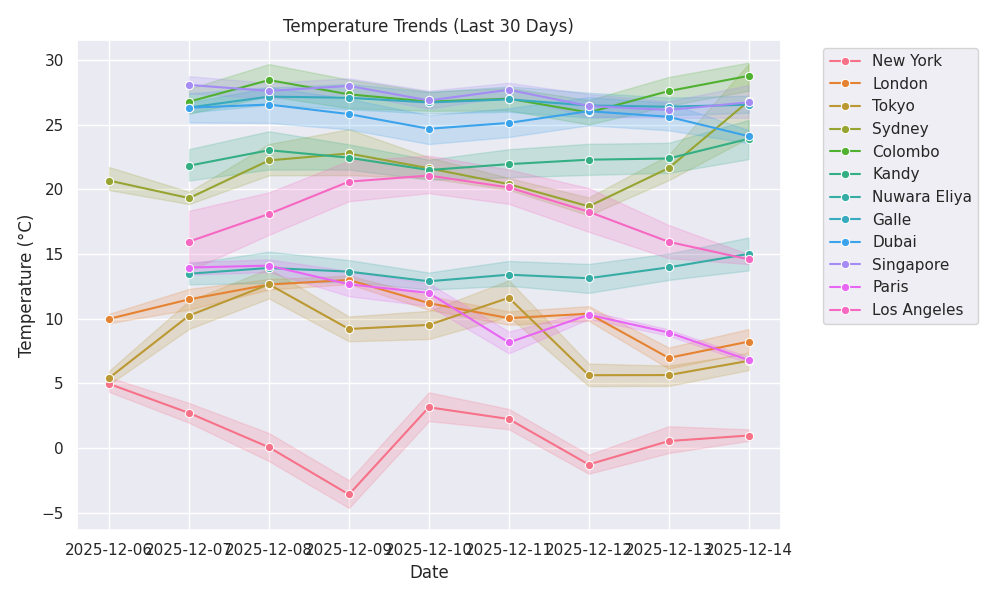
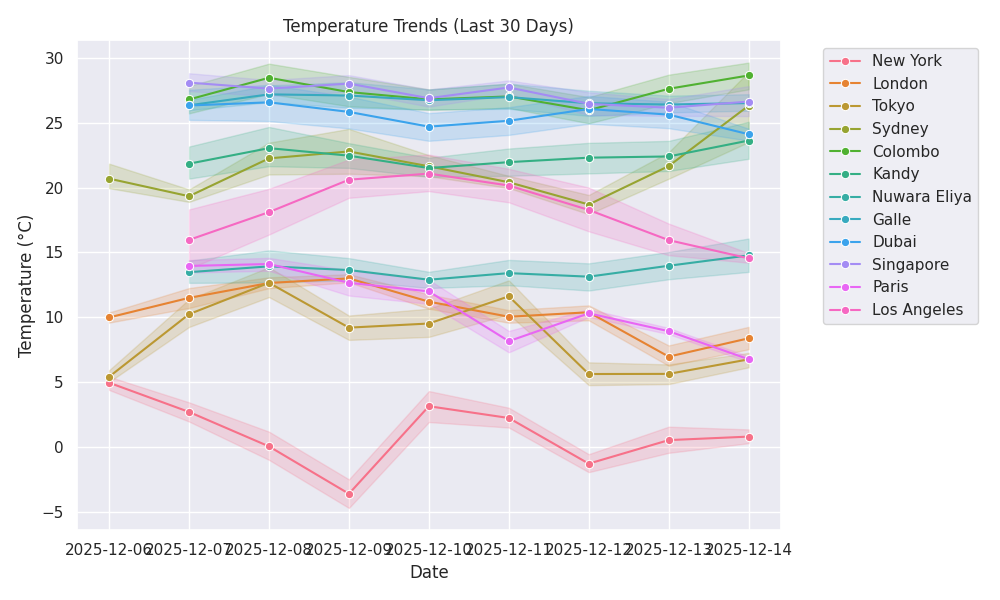
🌦 Weather update: 2025-12-14 15:12

diff --git a/public/index.html b/public/index.html
@@ -11,7 +11,7 @@
     <div class="max-w-6xl mx-auto">
         <header class="mb-8 text-center">
             <h1 class="text-4xl font-bold mb-2">🌍 Global Weather Dashboard</h1>
-            <p class="text-slate-400">Last Updated: 2025-12-14 14:12:09</p>
+            <p class="text-slate-400">Last Updated: 2025-12-14 15:12:20</p>
         </header>
         
         <!-- AI Summary -->
@@ -29,12 +29,12 @@
                     <span class="text-3xl">🌫</span>
                 </div>
                 <div class="mt-4">
-                    <p class="text-4xl font-bold">6.38°C</p>
+                    <p class="text-4xl font-bold">6.4°C</p>
                     <p class="text-slate-400 capitalize">fog</p>
                 </div>
                 <div class="mt-4 text-sm text-slate-500">
                     <p>💧 Humidity: 98%</p>
-                    <p>💨 Wind: 4.63 m/s</p>
+                    <p>💨 Wind: 3.6 m/s</p>
                 </div>
             </div>
             
@@ -44,12 +44,12 @@
                     <span class="text-3xl">☁</span>
                 </div>
                 <div class="mt-4">
-                    <p class="text-4xl font-bold">10.83°C</p>
-                    <p class="text-slate-400 capitalize">few clouds</p>
+                    <p class="text-4xl font-bold">10.37°C</p>
+                    <p class="text-slate-400 capitalize">broken clouds</p>
                 </div>
                 <div class="mt-4 text-sm text-slate-500">
-                    <p>💧 Humidity: 76%</p>
-                    <p>💨 Wind: 6.69 m/s</p>
+                    <p>💧 Humidity: 78%</p>
+                    <p>💨 Wind: 5.66 m/s</p>
                 </div>
             </div>
             
@@ -59,12 +59,12 @@
                     <span class="text-3xl">☁</span>
                 </div>
                 <div class="mt-4">
-                    <p class="text-4xl font-bold">19.67°C</p>
+                    <p class="text-4xl font-bold">19.53°C</p>
                     <p class="text-slate-400 capitalize">overcast clouds</p>
                 </div>
                 <div class="mt-4 text-sm text-slate-500">
-                    <p>💧 Humidity: 76%</p>
-                    <p>💨 Wind: 9.77 m/s</p>
+                    <p>💧 Humidity: 75%</p>
+                    <p>💨 Wind: 7.2 m/s</p>
                 </div>
             </div>
             
@@ -89,12 +89,12 @@
                     <span class="text-3xl">☀</span>
                 </div>
                 <div class="mt-4">
-                    <p class="text-4xl font-bold">24.96°C</p>
+                    <p class="text-4xl font-bold">23.96°C</p>
                     <p class="text-slate-400 capitalize">clear sky</p>
                 </div>
                 <div class="mt-4 text-sm text-slate-500">
-                    <p>💧 Humidity: 53%</p>
-                    <p>💨 Wind: 2.06 m/s</p>
+                    <p>💧 Humidity: 60%</p>
+                    <p>💨 Wind: 2.57 m/s</p>
                 </div>
             </div>
             
@@ -104,12 +104,12 @@
                     <span class="text-3xl">☁</span>
                 </div>
                 <div class="mt-4">
-                    <p class="text-4xl font-bold">11.73°C</p>
+                    <p class="text-4xl font-bold">11.69°C</p>
                     <p class="text-slate-400 capitalize">scattered clouds</p>
                 </div>
                 <div class="mt-4 text-sm text-slate-500">
-                    <p>💧 Humidity: 99%</p>
-                    <p>💨 Wind: 1.88 m/s</p>
+                    <p>💧 Humidity: 97%</p>
+                    <p>💨 Wind: 1.99 m/s</p>
                 </div>
             </div>
             
@@ -119,12 +119,12 @@
                     <span class="text-3xl">☁</span>
                 </div>
                 <div class="mt-4">
-                    <p class="text-4xl font-bold">25.94°C</p>
+                    <p class="text-4xl font-bold">25.93°C</p>
                     <p class="text-slate-400 capitalize">few clouds</p>
                 </div>
                 <div class="mt-4 text-sm text-slate-500">
-                    <p>💧 Humidity: 79%</p>
-                    <p>💨 Wind: 0.83 m/s</p>
+                    <p>💧 Humidity: 80%</p>
+                    <p>💨 Wind: 1.37 m/s</p>
                 </div>
             </div>
             
@@ -134,12 +134,12 @@
                     <span class="text-3xl">☁</span>
                 </div>
                 <div class="mt-4">
-                    <p class="text-4xl font-bold">20.01°C</p>
+                    <p class="text-4xl font-bold">19.75°C</p>
                     <p class="text-slate-400 capitalize">few clouds</p>
                 </div>
                 <div class="mt-4 text-sm text-slate-500">
-                    <p>💧 Humidity: 99%</p>
-                    <p>💨 Wind: 1.92 m/s</p>
+                    <p>💧 Humidity: 100%</p>
+                    <p>💨 Wind: 1.93 m/s</p>
                 </div>
             </div>
             
@@ -149,42 +149,42 @@
                     <span class="text-3xl">☁</span>
                 </div>
                 <div class="mt-4">
-                    <p class="text-4xl font-bold">27.24°C</p>
+                    <p class="text-4xl font-bold">26.69°C</p>
                     <p class="text-slate-400 capitalize">few clouds</p>
                 </div>
                 <div class="mt-4 text-sm text-slate-500">
-                    <p>💧 Humidity: 82%</p>
-                    <p>💨 Wind: 7.24 m/s</p>
+                    <p>💧 Humidity: 81%</p>
+                    <p>💨 Wind: 8.11 m/s</p>
                 </div>
             </div>
             
             <div class="bg-slate-800 p-6 rounded-xl shadow-lg border-t-4 border-blue-500 hover:scale-105 transition-transform">
                 <div class="flex justify-between items-start">
                     <h3 class="text-xl font-bold">New York</h3>
-                    <span class="text-3xl">❄</span>
+                    <span class="text-3xl">🌫</span>
                 </div>
                 <div class="mt-4">
-                    <p class="text-4xl font-bold">0.16°C</p>
-                    <p class="text-slate-400 capitalize">snow</p>
+                    <p class="text-4xl font-bold">-1.22°C</p>
+                    <p class="text-slate-400 capitalize">fog</p>
                 </div>
                 <div class="mt-4 text-sm text-slate-500">
                     <p>💧 Humidity: 92%</p>
-                    <p>💨 Wind: 6.17 m/s</p>
+                    <p>💨 Wind: 7.72 m/s</p>
                 </div>
             </div>
             
             <div class="bg-slate-800 p-6 rounded-xl shadow-lg border-t-4 border-blue-500 hover:scale-105 transition-transform">
                 <div class="flex justify-between items-start">
                     <h3 class="text-xl font-bold">Tokyo</h3>
-                    <span class="text-3xl">☁</span>
+                    <span class="text-3xl">☀</span>
                 </div>
                 <div class="mt-4">
-                    <p class="text-4xl font-bold">7.51°C</p>
-                    <p class="text-slate-400 capitalize">few clouds</p>
+                    <p class="text-4xl font-bold">6.98°C</p>
+                    <p class="text-slate-400 capitalize">clear sky</p>
                 </div>
                 <div class="mt-4 text-sm text-slate-500">
-                    <p>💧 Humidity: 88%</p>
-                    <p>💨 Wind: 5.14 m/s</p>
+                    <p>💧 Humidity: 86%</p>
+                    <p>💨 Wind: 5.66 m/s</p>
                 </div>
             </div>
             
@@ -194,12 +194,12 @@
                     <span class="text-3xl">🌫</span>
                 </div>
                 <div class="mt-4">
-                    <p class="text-4xl font-bold">13.85°C</p>
+                    <p class="text-4xl font-bold">13.87°C</p>
                     <p class="text-slate-400 capitalize">mist</p>
                 </div>
                 <div class="mt-4 text-sm text-slate-500">
-                    <p>💧 Humidity: 94%</p>
-                    <p>💨 Wind: 0.0 m/s</p>
+                    <p>💧 Humidity: 91%</p>
+                    <p>💨 Wind: 1.54 m/s</p>
                 </div>
             </div>
             

diff --git a/README.md b/README.md
@@ -8,8 +8,8 @@
 
 ---
 
-## ⚡ Live Status (Updated: 2025-12-14 14:12 UTC)
-![Paris](https://img.shields.io/badge/Paris-6.38°C-blue) ![London](https://img.shields.io/badge/London-10.83°C-blue) ![Sydney](https://img.shields.io/badge/Sydney-19.67°C-green) ![Singapore](https://img.shields.io/badge/Singapore-25.15°C-orange) ![Dubai](https://img.shields.io/badge/Dubai-24.96°C-green) ![Nuwara Eliya](https://img.shields.io/badge/Nuwara%20Eliya-11.73°C-blue) ![Galle](https://img.shields.io/badge/Galle-25.94°C-orange) ![Kandy](https://img.shields.io/badge/Kandy-20.01°C-green) ![Colombo](https://img.shields.io/badge/Colombo-27.24°C-orange) ![New York](https://img.shields.io/badge/New%20York-0.16°C-blue) ![Tokyo](https://img.shields.io/badge/Tokyo-7.51°C-blue) ![Los Angeles](https://img.shields.io/badge/Los%20Angeles-13.85°C-blue) 
+## ⚡ Live Status (Updated: 2025-12-14 15:12 UTC)
+![Paris](https://img.shields.io/badge/Paris-6.4°C-blue) ![London](https://img.shields.io/badge/London-10.37°C-blue) ![Sydney](https://img.shields.io/badge/Sydney-19.53°C-green) ![Singapore](https://img.shields.io/badge/Singapore-25.15°C-orange) ![Dubai](https://img.shields.io/badge/Dubai-23.96°C-green) ![Nuwara Eliya](https://img.shields.io/badge/Nuwara%20Eliya-11.69°C-blue) ![Galle](https://img.shields.io/badge/Galle-25.93°C-orange) ![Kandy](https://img.shields.io/badge/Kandy-19.75°C-green) ![Colombo](https://img.shields.io/badge/Colombo-26.69°C-orange) ![New York](https://img.shields.io/badge/New%20York--1.22°C-blue) ![Tokyo](https://img.shields.io/badge/Tokyo-6.98°C-blue) ![Los Angeles](https://img.shields.io/badge/Los%20Angeles-13.87°C-blue) 
 
 <div align="center">
   <h3>🏆 Weather Records (Live)</h3>
@@ -19,8 +19,8 @@
         <td align="center">❄ <b>Coldest City</b></td>
     </tr>
     <tr>
-        <td align="center"><b>Colombo</b><br>27.24°C</td>
-        <td align="center"><b>New York</b><br>0.16°C</td>
+        <td align="center"><b>Colombo</b><br>26.69°C</td>
+        <td align="center"><b>New York</b><br>-1.22°C</td>
     </tr>
   </table>
 </div>
@@ -28,18 +28,18 @@
 ## 📊 Global Overview
 | 🌍 City | 🌡 Temp | 🌤 Condition | 💧 Humidity | 🌬 Wind |
 |---|---|---|---|---|
-| **Paris** | 6.38°C | fog | 🟦🟦🟦🟦⬜ 98% | 4.63 m/s |
-| **London** | 10.83°C | few clouds | 🟦🟦🟦⬜⬜ 76% | 6.69 m/s |
-| **Sydney** | 19.67°C | overcast clouds | 🟦🟦🟦⬜⬜ 76% | 9.77 m/s |
+| **Paris** | 6.4°C | fog | 🟦🟦🟦🟦⬜ 98% | 3.6 m/s |
+| **London** | 10.37°C | broken clouds | 🟦🟦🟦⬜⬜ 78% | 5.66 m/s |
+| **Sydney** | 19.53°C | overcast clouds | 🟦🟦🟦⬜⬜ 75% | 7.2 m/s |
 | **Singapore** | 25.15°C | scattered clouds | 🟦🟦🟦🟦⬜ 96% | 1.54 m/s |
-| **Dubai** | 24.96°C | clear sky | 🟦🟦⬜⬜⬜ 53% | 2.06 m/s |
-| **Nuwara Eliya** | 11.73°C | scattered clouds | 🟦🟦🟦🟦⬜ 99% | 1.88 m/s |
-| **Galle** | 25.94°C | few clouds | 🟦🟦🟦⬜⬜ 79% | 0.83 m/s |
-| **Kandy** | 20.01°C | few clouds | 🟦🟦🟦🟦⬜ 99% | 1.92 m/s |
-| **Colombo** | 27.24°C | few clouds | 🟦🟦🟦🟦⬜ 82% | 7.24 m/s |
-| **New York** | 0.16°C | snow | 🟦🟦🟦🟦⬜ 92% | 6.17 m/s |
-| **Tokyo** | 7.51°C | few clouds | 🟦🟦🟦🟦⬜ 88% | 5.14 m/s |
-| **Los Angeles** | 13.85°C | mist | 🟦🟦🟦🟦⬜ 94% | 0.0 m/s |
+| **Dubai** | 23.96°C | clear sky | 🟦🟦🟦⬜⬜ 60% | 2.57 m/s |
+| **Nuwara Eliya** | 11.69°C | scattered clouds | 🟦🟦🟦🟦⬜ 97% | 1.99 m/s |
+| **Galle** | 25.93°C | few clouds | 🟦🟦🟦🟦⬜ 80% | 1.37 m/s |
+| **Kandy** | 19.75°C | few clouds | 🟦🟦🟦🟦🟦 100% | 1.93 m/s |
+| **Colombo** | 26.69°C | few clouds | 🟦🟦🟦🟦⬜ 81% | 8.11 m/s |
+| **New York** | -1.22°C | fog | 🟦🟦🟦🟦⬜ 92% | 7.72 m/s |
+| **Tokyo** | 6.98°C | clear sky | 🟦🟦🟦🟦⬜ 86% | 5.66 m/s |
+| **Los Angeles** | 13.87°C | mist | 🟦🟦🟦🟦⬜ 91% | 1.54 m/s |
 
 
 ## 📈 Temperature Trends
